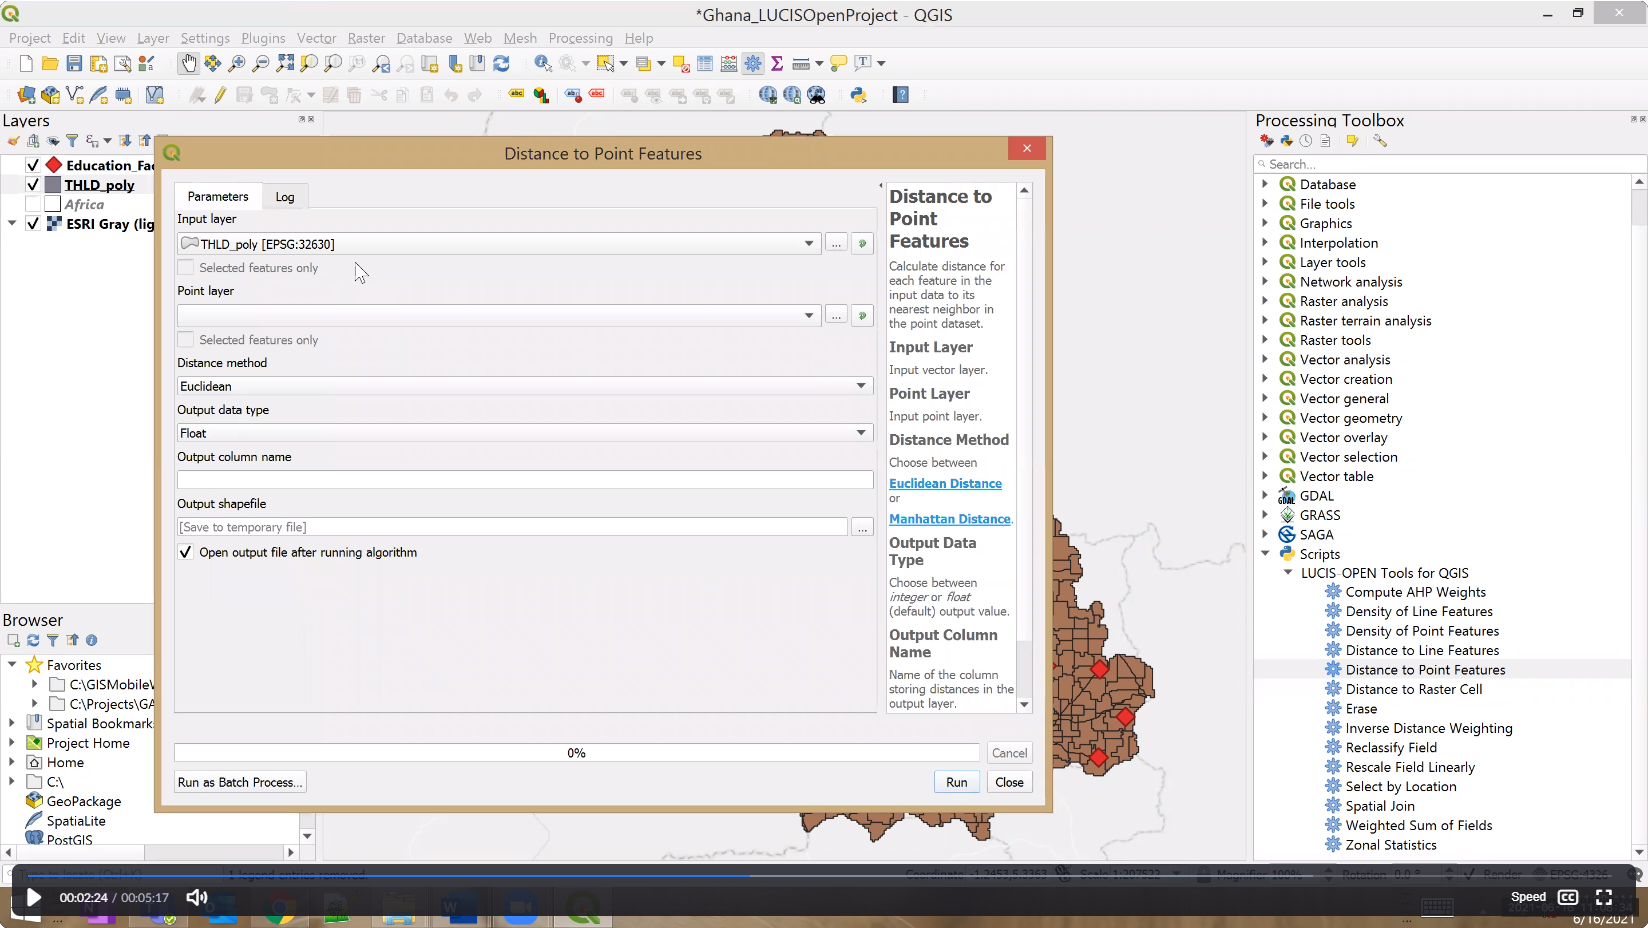
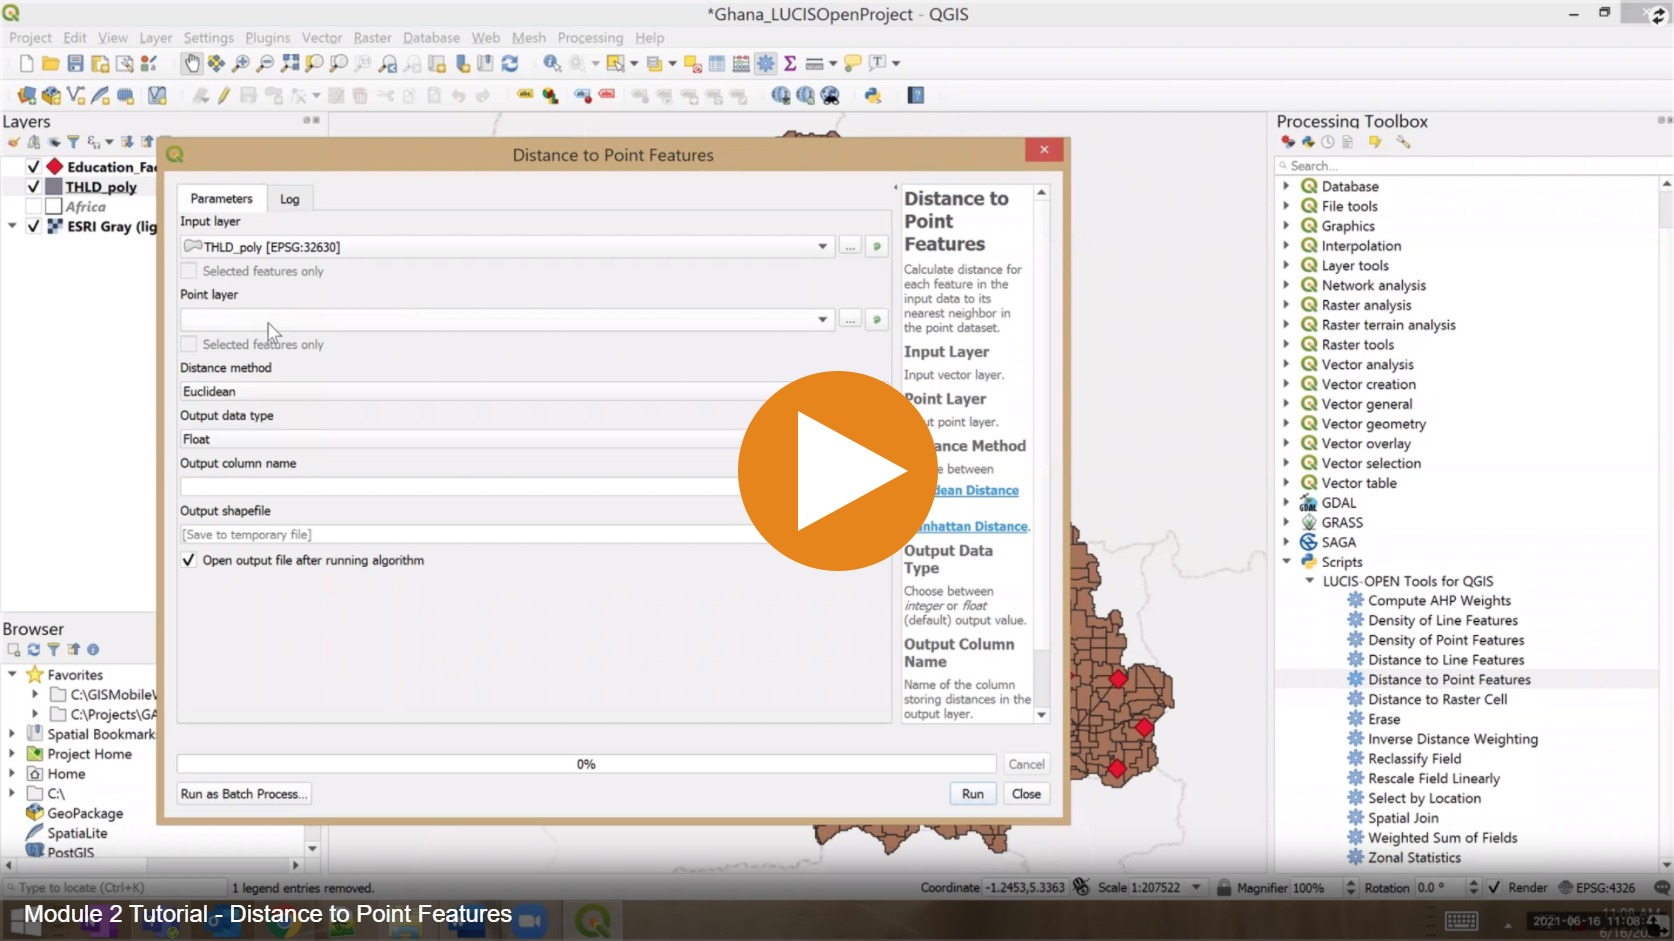
update video frame for distance to point

diff --git a/training/1_lu/modules/module2.md b/training/1_lu/modules/module2.md
@@ -99,7 +99,7 @@ The two figures below display the specific parameter settings
 
 ### 2.3 Video Tutorial
 
-<a href="https://tinyurl.com/38stnx67">
+<a href="https://mediasite.video.ufl.edu/Mediasite/Play/7b5a5d92d18543df8ccb5e9839d9e2ba1d">
   <img src="../../../images/video_frames/m2_dist_pnt.png" alt= "distance to point" width="800">
 </a>
 
